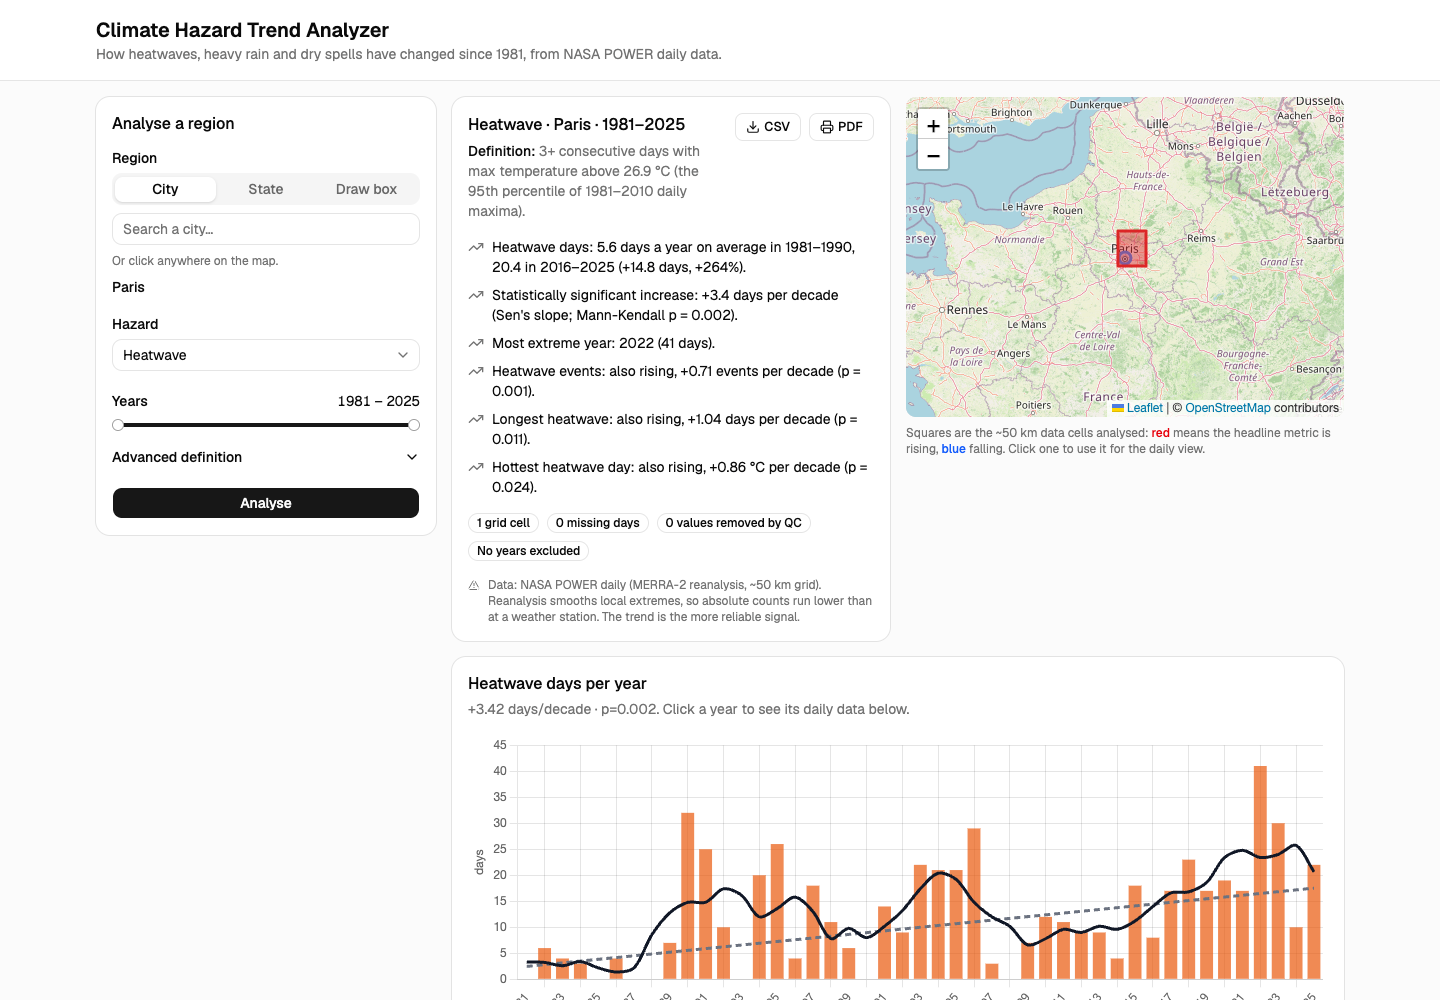
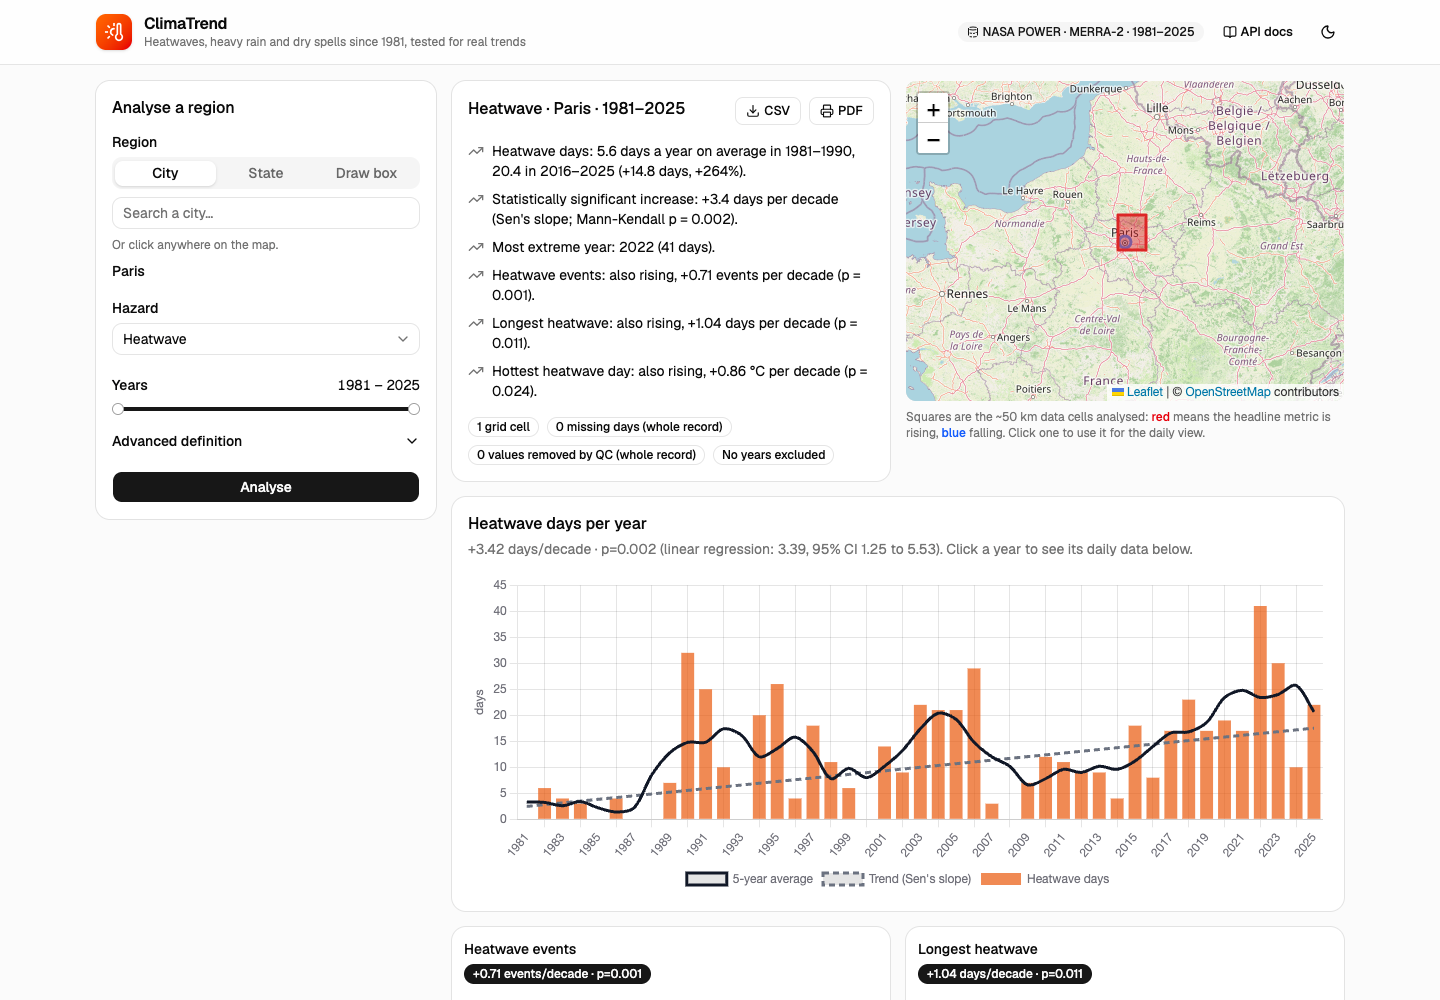
Bring README in line with the current app
Refresh the screenshot; document deploy steps, the frontend file map,
the theme toggle and /api/health; correct the caching, caveat, state-id
and hazard-colour statements; re-verify every quoted number against the
running API.

diff --git a/README.md b/README.md
@@ -8,34 +8,38 @@ Pick a city, a state or a box on the map, and see how heatwaves (or heavy rain, 
 
 ## What it does
 
-- **Region:** city search, state/province search (with its outline), click on the map, or draw a box.
+- **Region:** search a city, search a state/province (its outline is drawn on the map), click anywhere on the map, or draw a box by clicking two corners.
 - **Hazard:** Heatwave by default, plus Heavy rain and Drought (dry spells).
 - **Years:** any range of at least 10 years between 1981 and the last complete year.
-- **Output:**
-  - Insights in plain English ("+3.4 heatwave days per decade, Mann-Kendall p = 0.002").
-  - Yearly charts with a 5-year average and trend line.
-  - One small chart per secondary metric.
-  - A map of the analysed grid cells coloured by trend.
-  - Click a year to see its daily temperatures against the threshold, with each event shaded.
-- **Export:** CSV of the yearly table, and PDF through the browser's print dialog.
+- **Results:**
+  - **Plain-English insights.** For example: "Statistically significant increase: +3.4 days per decade (Sen's slope; Mann-Kendall p = 0.002)."
+  - **Headline chart:** bars per year, a 5-year average, and a Sen's-slope trend line. The linear-regression slope and its 95% confidence interval are shown alongside.
+  - **One small chart per secondary metric,** each with a badge saying whether its trend is significant.
+  - **Map** of the analysed grid cells, red if the headline metric is rising and blue if falling. Click a cell to use it for the daily view.
+  - **Daily view.** Click a year to see its daily values against the threshold, with each event shaded.
+  - **Data-quality badges:** missing days, values removed by QC, years excluded.
+- **Export:** CSV of the yearly table, and PDF through the browser's print dialog (with a print stylesheet).
 - **Shareable links:** the page URL holds the full query.
+- **Light and dark theme.** It follows the system setting and remembers your choice.
 
 ## Run it locally
 
 Needs Python 3.12 + [uv](https://docs.astral.sh/uv/), Node ≥ 20.19, and MongoDB (Docker is easiest).
 
 ```bash
-docker run -d --name climate-mongo -p 27017:27017 mongo:8
+docker run -d --name climate-mongo -p 27017:27017 mongo:8   # mongodb://localhost:27017
 
 cd backend
 uv sync
 uv run uvicorn app.main:app --reload          # http://localhost:8000/docs
 uv run pytest                                 # hazard + trend tests
+uv run ruff check . && uv run ruff format .   # lint + format
 uv run python seed.py                         # optional: pre-download demo cities
 
 cd ../frontend
 npm install
 npm run dev                                   # http://localhost:5173
+npm run lint && npm run format                # oxlint + prettier
 ```
 
 Environment variables (all optional locally):
@@ -45,6 +49,14 @@ Environment variables (all optional locally):
 | `MONGO_URI` | backend | `mongodb://localhost:27017` |
 | `ALLOWED_ORIGINS` | backend | `http://localhost:5173` (comma-separated) |
 | `VITE_API_URL` | frontend | `http://localhost:8000` |
+
+## Deploy
+
+1. **MongoDB Atlas:** create a free M0 cluster and a database user, and copy the `mongodb+srv://…` connection string.
+2. **Render:** create a new Blueprint from this repo. `render.yaml` builds `backend/Dockerfile`. Set `MONGO_URI` to the Atlas string.
+3. **Vercel:** import the repo with root directory `frontend`, and set `VITE_API_URL` to the Render URL.
+4. **CORS:** back on Render, set `ALLOWED_ORIGINS` to the Vercel URL.
+5. **Optional:** pre-download the demo cities with `MONGO_URI="mongodb+srv://…" uv run python seed.py`, run from `backend/`.
 
 ## Architecture
 
@@ -60,40 +72,54 @@ React + Vite (Vercel) ──GET──> FastAPI (Render, Docker) ──> MongoDB 
 
 What happens on `GET /api/analysis`:
 
-1. **Cache check.** Look up the request (normalised, plus an algorithm version) in `analyses`. On a hit, return it (~60 ms).
-2. **Grid cells.** Turn the region into grid cells:
-   - A city or clicked point becomes 1 cell.
-   - A box or state becomes up to 9 cells spread over it, keeping only cells whose centre is inside the state outline.
-3. **Daily data.** Load each cell's daily data from `weather_daily`.
-   - Missing cells are downloaded from NASA POWER: 45 years in one call, ~2 s.
-   - A per-cell lock means simultaneous requests share one download.
-4. **QC, then detection.** Run quality control, then hazard detection, **per cell**.
-5. **Combine.** Average the yearly metrics across cells, fit trends, and write the insights.
-6. **Store and return.** Save the result to `analyses` and return it.
+1. **Validate** the query (Pydantic) and apply the per-IP rate limit.
+2. **Cache check.** Hash the normalised query plus `ALGO_VERSION` (SHA-256) and look it up in `analyses`. On a hit, return it (~60 ms).
+3. **Grid cells.** Turn the region into grid cells:
+   - A city or clicked point snaps to the 1 cell containing it.
+   - A box or state is sampled with a 6×6 lattice, snapped to cells, and thinned to at most 9. For a state, only cells whose centre lies inside the outline are kept, so coastal states don't pick up sea cells.
+4. **Daily data.** Load each cell's years from `weather_daily`.
+   - Missing years are downloaded from NASA POWER: one call returns up to 45 years in ~2 s. They're saved as one document per year.
+   - A per-cell lock means simultaneous requests for a new cell share one download.
+5. **QC, then detection.** Run quality control, then hazard detection, **per cell**.
+6. **Combine.** Average the yearly metrics across cells, fit trends, and write the insights and caveats.
+7. **Store and return.** Save the result to `analyses` and return it as gzip-compressed JSON.
+
+`GET /api/daily` (the year drill-down) reloads one cell from `weather_daily` and re-runs QC and detection. It never calls NASA.
 
 | Backend file | What's in it |
 |---|---|
-| `app/main.py` | HTTP layer: request models and validation, rate limits, caching headers, CSV export |
+| `app/main.py` | HTTP layer: request models and validation, rate limits, CSV export |
 | `app/analysis.py` | The flow above: region → cells → data → regional result |
 | `app/hazards.py` | QC and hazard detection. Pure functions, no I/O |
 | `app/trends.py` | Rolling mean, regression, Mann-Kendall / Sen's slope, insight sentences |
 | `app/sources.py` | NASA POWER, Open-Meteo and Nominatim clients (retry, backoff, politeness limits) |
 | `app/store.py` | MongoDB collections |
+| `seed.py` | Pre-downloads demo cities |
 
-The frontend has no hazard-specific code. `/api/meta` lists the hazards and the parameters each one uses, and every analysis response carries its own metric labels and units. Adding a hazard is one function and one entry in `HAZARDS` in `hazards.py`.
+| Frontend file | What's in it |
+|---|---|
+| `src/App.tsx` | Page layout, header and theme toggle, form state, "Analyse" |
+| `src/api.ts` | API calls (TanStack Query hooks), page URL ⇄ query string |
+| `src/components/Controls.tsx` | Region tabs, hazard, years, advanced definition |
+| `src/components/PlaceSearch.tsx` | City/state autocomplete |
+| `src/components/RegionMap.tsx` | Leaflet map: pick a point, draw a box, analysed cells |
+| `src/components/Summary.tsx` | Insights, data-quality badges, caveats, CSV/PDF buttons |
+| `src/components/Charts.tsx` | Headline chart, per-metric charts, daily view |
+
+**Adding a hazard:** one detection function and one entry in `HAZARDS` in `hazards.py`. `/api/meta` lists the hazards and the parameters each one uses, and every analysis response carries its own metric labels and units, so the frontend picks the new hazard up without changes. Optionally, give it a chart colour in `HAZARD_COLORS` in `Charts.tsx`; otherwise it uses a default colour.
 
 ## Data source
 
 **NASA POWER daily point API**: MERRA-2 reanalysis, a 0.5° × 0.625° grid (~50 km), 1981 to present, no API key.
 
 - **Variables:** daily max and min 2 m temperature, and bias-corrected precipitation.
-- **Why not Open-Meteo (the original plan):** I tested its archive API first. One 44-year daily request for a single location used up the whole free per-minute quota, and the second request got `429 Minutely API request limit exceeded`. Open-Meteo counts long requests as many calls, so the free tier allows roughly 8 new locations a day. NASA POWER returned three back-to-back 45-year downloads in ~2 s each with no throttling.
+- **Why not Open-Meteo (the original plan):** I tested its archive API first. The first 44-year daily request for one location succeeded. The second, a few seconds later, got `429 Minutely API request limit exceeded`. Open-Meteo counts a long request as many calls, and by its published weighting the free tier allows only about 8 new 45-year locations a day. NASA POWER returned three back-to-back 45-year downloads in ~2 s each, with no throttling.
 - **Trade-offs of NASA POWER:**
   - No data before 1981.
-  - A coarser grid. Reanalysis smooths local extremes, so a weather station would record more hot days than the grid cell. Trends are more reliable than absolute counts.
+  - A coarser grid. Reanalysis smooths local extremes: Paris's hottest day in 2019 is 39.6 °C in its grid cell, against the 42.6 °C station record. Trends are more reliable than absolute values.
 - **Geocoding:**
-  - Open-Meteo for cities, which is cheap and generous.
-  - Nominatim for states, because it returns the outline polygon. Its policy of at most 1 request a second is enforced with a lock.
+  - Open-Meteo for cities, which is fast and generous. The frontend sends the city's coordinates, so nothing needs storing.
+  - Nominatim for states, because it returns the outline polygon. The backend needs that outline, and Nominatim allows at most 1 request a second (enforced with a lock), so outlines are cached in `places`.
 
 ## Hazard logic
 
@@ -102,9 +128,10 @@ The frontend has no hazard-specific code. `/api/meta` lists the hazards and the 
 **Definition:** at least 3 consecutive days with daily max temperature above the 95th percentile, as in the brief.
 
 - **The percentile comes from a fixed 1981–2010 baseline, not from the years you select.** If the threshold were computed from the selected years, it would move whenever you changed the range. A warming period would also partly define its own "normal" and hide part of its own trend.
-- **Two ways to compute the threshold** (Advanced → "Threshold compared against"):
+- **Two ways to compute the threshold** (Advanced definition → "Threshold compared against"):
   - **Whole year (default).** One threshold: the 95th percentile of all baseline days. Only the hot season can cross it, which matches what people mean by a heatwave.
   - **Same time of year.** A separate 95th percentile for each calendar day, from a 15-day window (the ETCCDI approach). This also catches unusually warm spells in winter.
+- **Percentile and minimum run length** are adjustable (80–99 and 2–10 days).
 - **Yearly metrics** (after Perkins & Alexander 2013):
   - Heatwave days (the headline)
   - Number of events
@@ -117,7 +144,8 @@ The frontend has no hazard-specific code. `/api/meta` lists the hazards and the 
 ### Heavy rain
 
 - Days with rainfall above the 95th percentile of baseline **wet** days (≥ 1 mm). This is the R95p idea.
-- Reported per year: number of such days, events, rain falling on those days, and the wettest day.
+- Only one threshold for the whole year: a 15-day window holds too few wet days for a stable percentile.
+- Reported per year: number of such days, events (consecutive heavy days), rain falling on those days, and the wettest day.
 
 ### Drought (proxy)
 
@@ -127,18 +155,23 @@ The frontend has no hazard-specific code. `/api/meta` lists the hazards and the 
 
 ## Trends and insights
 
-- **Trend test:** Mann-Kendall plus Sen's slope (`scipy.stats.kendalltau` and `theilslopes`), reported per decade. These are rank-based, so one extreme year can't drag the result around, and they make no assumption about how counts are distributed. Ordinary least-squares regression with a 95% confidence interval is returned as well.
+- **Trend test:** Mann-Kendall plus Sen's slope (`scipy.stats.kendalltau` and `theilslopes`), reported per decade. These are rank-based, so one extreme year can't drag the result around, and they make no assumption about how counts are distributed.
+- **Cross-check:** ordinary least-squares regression (`scipy.stats.linregress`), shown with its 95% confidence interval.
 - **"Significant" means p < 0.05.** The test assumes years are independent, and climate series are mildly autocorrelated, so p-values near 0.05 are borderline.
 - **Insight sentences follow fixed rules so they stay honest:**
   - They compare the **first-decade average with the last-decade average**, never two single years.
-  - Percent change is shown only for counts, and only when the starting value is at least 1 a year. "+300%" from 0.5 to 2 days misleads.
+  - Percent change is shown only for counts and totals, and only when the starting value is at least 1 a year. "+300%" from 0.5 to 2 days misleads.
   - Every trend sentence states whether it is statistically significant. If it isn't, it says so.
-  - A caveat appears when fewer than 20 years are selected, and when years were excluded.
+  - A secondary metric gets its own line only when its trend is significant.
+  - Caveats appear only when they apply:
+    - fewer than 20 years selected
+    - years excluded for missing data
+    - a region averaged over several cells
 - **Example of why this matters:** Paris shows a significant +3.4 heatwave days per decade for 1981–2025 (p = 0.002), but **no trend for 1991–2020** (12.0 → 13.5 days a year, p = 0.83). The long-run signal comes from the cool 1980s and recent hot summers such as 2022 (41 days) and 2023. The tool reports both readings rather than picking one.
 
 ## Data handling
 
-Quality control in `hazards.clean`. The results go back with every analysis and appear as badges in the UI.
+Quality control lives in `hazards.clean` and runs on every read. Its counts go back with every analysis and appear as badges in the UI. The badges cover the cell's whole 1981–present record.
 
 - **Fill values:** NASA's `-999` becomes "missing".
 - **Units:** asserted on every download (°C and mm/day). If NASA ever changed units, the app fails loudly instead of quietly treating Kelvin as °C.
@@ -146,7 +179,10 @@ Quality control in `hazards.clean`. The results go back with every analysis and 
 - **Plausibility bounds:** Tmax between −90 and 60 °C, Tmin ≤ Tmax, rain between 0 and 2,000 mm. Values outside are removed.
 - **Outliers:** temperatures more than 6 standard deviations from the normal for that calendar day are removed. Rain is exempt, because heavy rain is supposed to be extreme.
 - **A missing day ends a heatwave run** instead of being bridged over.
-- **Incomplete years:** a year missing more than 5% of its days is left out of trends and shown as a gap. Counting it as zero would fake a decline. The current partial year is never used.
+- **Incomplete years:** a year missing (or QC-rejecting) more than 5% of its days is left out of trends and shown as a gap. Counting it as zero would fake a decline.
+  - Its events are dropped too.
+  - In a multi-cell region, a year incomplete at any cell is left out for the whole region.
+  - The current partial year is never used.
 - **Raw values are stored before QC,** so changing a QC rule never needs a re-download.
 
 ## Security and performance
@@ -155,35 +191,35 @@ Quality control in `hazards.clean`. The results go back with every analysis and 
   - Coordinate ranges, box at most 10° per side.
   - Years from 1981 to the last complete year, and at least 10 of them.
   - Percentile 80–99.9, minimum days 2–10.
-  - Hazard must be a known name, state id must match `^[NWR]\d+$`, search text 2–80 characters.
+  - Hazard must be a known name, state id must match `^[NWR]\d{1,12}$`, search text 2–80 characters.
   - Bad input returns 422 with a readable message.
 - **No SSRF:** outbound URLs are fixed constants, and user input only ever goes into query parameters.
-- **Rate limits per IP** (slowapi): analysis 20/min, place search 30/min, daily data 60/min. Uvicorn runs with `--proxy-headers` so the limiter sees the real client IP behind Render's proxy.
+- **Rate limits per IP** (slowapi): analysis and CSV 20/min, place search 30/min, daily view 60/min. The Docker image runs uvicorn with `--proxy-headers`, so the limiter sees the real client IP behind Render's proxy.
 - **Being polite upstream:**
   - At most 3 concurrent NASA requests, and 1 Nominatim request per second.
   - Retries with exponential backoff on 429/5xx and network errors.
   - If the provider stays down, the API returns 502 with a friendly message and no stack trace.
 - **Caching:**
-  - Raw data in Mongo (permanent), finished analyses (7 days), state outlines (30 days).
-  - Place searches carry `Cache-Control` for a day. Analyses deliberately don't: a browser-cached copy would outlive an `ALGO_VERSION` bump after a deploy.
-  - In-browser caching via TanStack Query.
-  - Responses are gzip-compressed.
+  - **MongoDB:** raw data (permanent), finished analyses (7 days), state outlines (30 days).
+  - **Browser:** TanStack Query caches responses within a session.
+  - **No HTTP caching for analyses:** they carry no browser `Cache-Control`, and the frontend fetches with `cache: 'no-cache'`. A browser-cached copy would outlive an `ALGO_VERSION` bump after a deploy. Place searches keep a one-day `Cache-Control`.
+  - **Compression:** responses over 1 KB are gzip-compressed.
 - **CORS** allows only the frontend's origin and GET requests. Secrets live only in environment variables.
 
 ## Sanity checks against known events
 
 | Event | What the app shows |
 |---|---|
-| Moscow 2010 heatwave | Top year by far: 49 heatwave days, including a 43-day event (5 Jul – 16 Aug) |
-| Paris 2019 (record 42.6 °C) and 2003 | 2019 has the hottest heatwave day of 1981–2024, and 2003 is third |
+| Moscow 2010 heatwave | Top year: 49 heatwave days, including a 43-day event (5 Jul – 16 Aug) |
+| Paris 2019 (record 42.6 °C) and 2003 | For 1981–2024, 2019 has the hottest heatwave day (39.6 °C in the grid cell) and 2003 is third |
 | Mumbai floods, 26 July 2005 | 2005 is the top heavy-rain year |
-| Chicago 1995 | **Not** a top year. That disaster was driven by humidity (heat index), which a Tmax-only definition misses. This is a known limitation, listed below |
+| Chicago 1995 | **Not** a top year (22nd of 45 by heatwave days). That disaster was driven by humidity (heat index), which a Tmax-only definition misses. This is a known limitation, listed below |
 
 ## Assumptions
 
 - "Heatwave" uses daily **max** temperature only, with no humidity or night-time minimum.
 - A "state" is whatever OpenStreetMap tags as a state/province. Large states are represented by at most 9 sample cells.
-- A city is analysed as the single grid cell containing it (~50 × 70 km), not the urban area itself.
+- A city is analysed as the single ~50 km grid cell containing it, not the urban area itself.
 - Boxes that cross the antimeridian aren't supported.
 
 ## What I would improve with more time
@@ -204,6 +240,7 @@ Interactive docs are at `/docs` (FastAPI's OpenAPI UI).
 
 | Endpoint | Purpose |
 |---|---|
+| `GET /api/health` | Liveness check |
 | `GET /api/meta` | Year range, hazards, and the parameters each hazard uses |
 | `GET /api/places?q=&kind=city\|state` | Place search |
 | `GET /api/analysis?hazard=&lat=&lon=` (or `bbox=s,w,n,e` or `state=`) `&start=&end=&percentile=&min_days=&method=` | Full analysis |
@@ -217,6 +254,7 @@ _TODO (author): review and adjust this to match how you actually worked._
 - **Claude Code (Claude Opus 5.5)** was used throughout as a pair programmer:
   - **Planning:** read the brief and proposed the architecture. I chose the stack, hazard scope and deployment target.
   - **Research:** checked API limits and found the Open-Meteo quota problem with a small test before any code was written.
-  - **Code:** wrote the backend and frontend, with my review at each step.
+  - **Code:** wrote the backend and frontend with my review at each step. I directed the UI changes (layout, header, theme, what the results card shows).
+  - **Review:** a separate review pass found bugs that were then fixed, e.g. excluded years counted as 0% affected, and month labels shifted in US timezones.
   - **Testing:** drove a headless browser to click through the UI and check the print layout.
 - Every hazard rule, statistical choice and insight wording was reviewed against the brief and checked on known events (table above).
